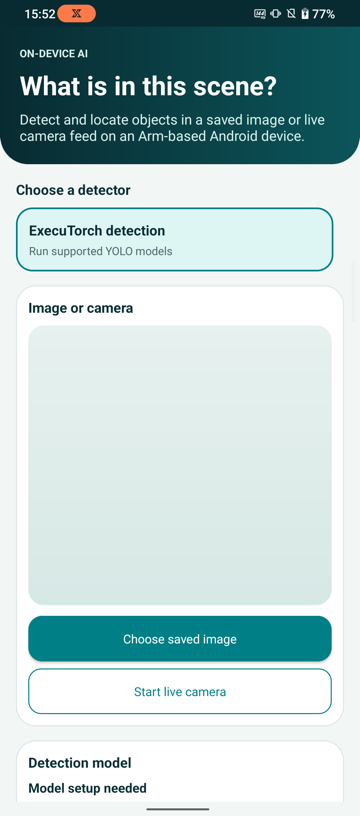
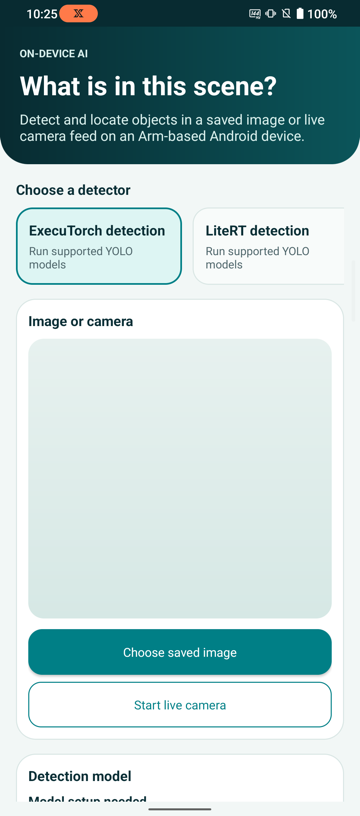
Update app documentation images

diff --git a/README.md b/README.md
@@ -12,7 +12,9 @@ The application imports model binaries at run time, so the model files are not s
 ## Application views
 
 <p align="center">
-  <img src="docs/images/scene-detector-image.png" width="35%" alt="Scene Detector drawing object labels and bounding boxes over a street image">
+  <img src="docs/images/scene-detector-startup.png" width="30%" alt="Scene Detector startup screen showing separate ExecuTorch and LiteRT detector choices">
+  <img src="docs/images/scene-detector-image.png" width="30%" alt="Scene Detector running an ExecuTorch model and drawing object labels and bounding boxes over a street image">
+  <img src="docs/images/scene-detector-litert.png" width="30%" alt="Scene Detector running a YOLO26n FP16 LiteRT model with aligned object-detection boxes and a detection summary">
 </p>
 
 The application detects objects in saved images or frames from a live camera. It displays each retained label, confidence score, and bounding box.
